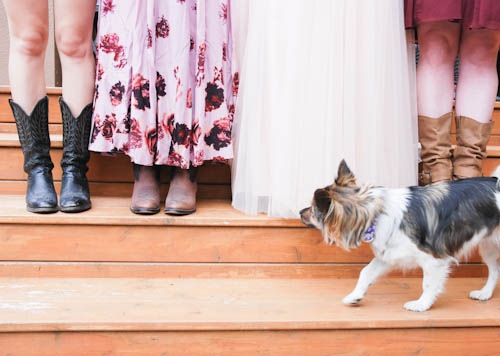
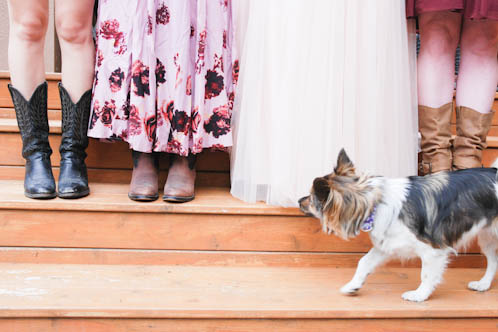
kaitypaddy thumbnail resize

diff --git a/_frontpage/about.md b/_frontpage/about.md
@@ -1,5 +1,6 @@
 ---
 title: All about Gillian
 label: about
---
+---
+
 I love capturing moments in photographs.  Whether it's a milestone, an accomplishment or a simple snapshot of everyday life, they are all important.  I like to think of every photo of a small time-machine, that can transport us back to some of our most treasured moments.   I treat my clients photos with as much care as I would give my own.
